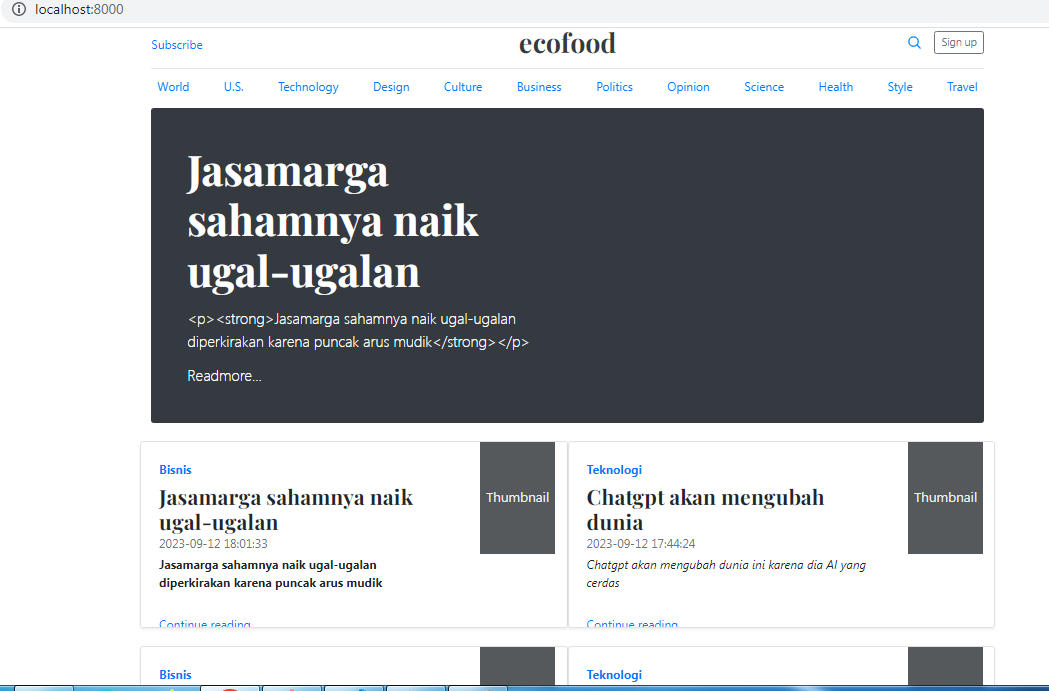
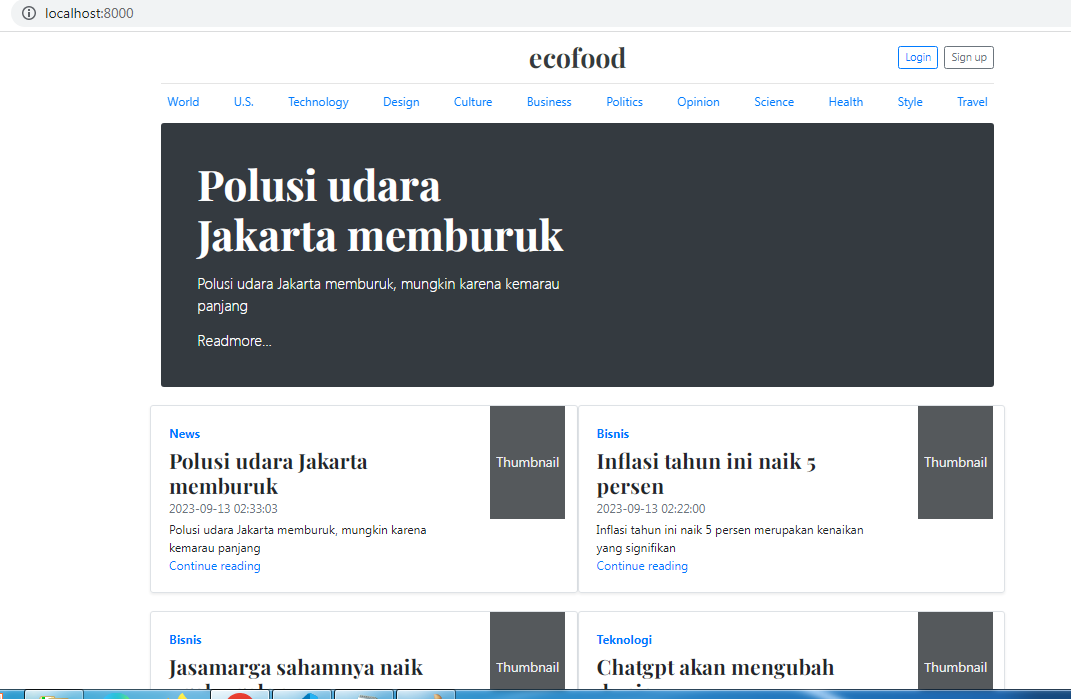
view-updated

Changed region(s): [[0.0, 0.0304, 1.0, 1.0], [0.0, 0.0, 0.122, 0.0304]]

diff --git a/resources/views/front/content.blade.php b/resources/views/front/content.blade.php
@@ -17,14 +17,12 @@
 
 @section('article')
 <div id="thumbnail" class="row mb-2">
-<article class="blog-post">
-  <h2 name="article-judul" class="blog-post-title"></h2>
-  <b name="article-penulis" class="blog-post-meta"></b>
-  <p name="article-date" class="blog-post-meta"></p>
-
-  <p name="article-isi" >This blog post shows a few different types of content that’s supported and styled with Bootstrap. Basic typography, lists, tables, images, code, and more are all supported as expected.</p>
-  <hr>
-</article>
+  <article class="blog-post">
+    <h2 name="article-judul" class="blog-post-title"></h2>
+    <b name="article-penulis" class="blog-post-meta"></b>
+    <p name="article-date" class="blog-post-meta"></p>
+    <p name="article-isi" ></p>
+  </article>
 </div>
 @endsection
 
@@ -35,30 +33,19 @@
 
 @section('widget')
 <div class="p-4">
-  <h4 class="fst-italic">About</h4>
+  <h4 class="fst-italic border-bottom">About</h4>
   <p>Customize this section to tell your visitors a little bit about your publication, writers, content, or something else entirely. Totally up to you.</p>
 </div>
 
 <div class="p-4">
-  <h4 class="fst-italic">Archives</h4>
-  <ol class="list-unstyled mb-0">
-    <li><a href="#">March 2021</a></li>
-    <li><a href="#">February 2021</a></li>
-    <li><a href="#">January 2021</a></li>
-    <li><a href="#">December 2020</a></li>
-    <li><a href="#">November 2020</a></li>
-    <li><a href="#">October 2020</a></li>
-    <li><a href="#">September 2020</a></li>
-    <li><a href="#">August 2020</a></li>
-    <li><a href="#">July 2020</a></li>
-    <li><a href="#">June 2020</a></li>
-    <li><a href="#">May 2020</a></li>
-    <li><a href="#">April 2020</a></li>
+  <h4 class="fst-italic border-bottom">Trending</h4>
+  <ol id="widget-trending" class="list-unstyled mb-0">
+    
   </ol>
 </div>
 
 <div class="p-4">
-  <h4 class="fst-italic">Elsewhere</h4>
+  <h4 class="fst-italic border-bottom">Soacial</h4>
   <ol class="list-unstyled">
     <li><a href="#">GitHub</a></li>
     <li><a href="#">Twitter</a></li>
@@ -105,7 +92,8 @@
           </div>
           </div>
           </div>`;
-
+          const widget = `<li><a href="#">${artikel.judul_artikel}</a></li>`;
+          $("#widget-trending").append(widget);
           $("#thumbnail").append(thumbnail);
         }              
       },

diff --git a/resources/views/front/beranda.blade.php b/resources/views/front/beranda.blade.php
@@ -93,7 +93,7 @@
     <div class="row g-5">
       <div class="col-md-8">
         <h3 class="pb-4 mb-4 fst-italic border-bottom">
-          From the Firehose
+          New Post
         </h3>
         @section('article')
 
@@ -105,7 +105,7 @@
       </nav>
     </div>
       <div class="col-md-4">
-        <div class="position-sticky" style="top: 2rem;">
+        <div class="position-sticky " style="top: 2rem;">
         @section('widget')
 
         @show
